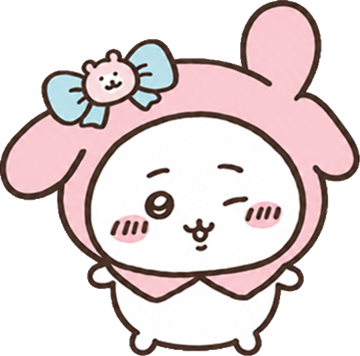
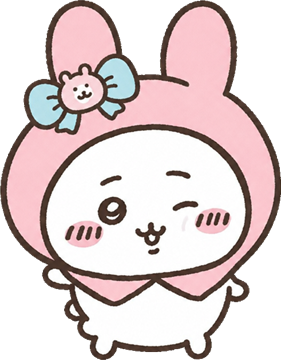
옷 그림 5벌 다시: 귀가 빠지거나 하나 더 생긴 AI 그림을 원본 기준으로
- 모몽가 마법소녀: MV 장면을 보고 귀·리본·꼬리를 살려 다시 그리고, 초록 배경으로 뽑아 깔끔하게 오림
- 치이카와 마이멜로디 옷: 후드 귀 두 개만 (치이카와 귀가 하나 더 생기던 것)
- 하치와레 호랑이 옷: 원본 새해 일러스트를 같이 보여 주고 다시 그림
- 카니 벚꽃 요정·하치와레 방한복: AI 대신 원본 일러스트·만화에서 다시 오림 (배경색과 몸 색을 구분해 안 비치게)

diff --git a/js/credits.js b/js/credits.js
@@ -115,13 +115,12 @@ const CREDITS = [
     note: '마법소녀(치이카와·하치와레·우사기·모몽가)와 산타(치이카와·하치와레·우사기·모몽가·랏코)는 원래 영상 장면, 마이멜로디·키티·푸린·쿠로미·한교동은 산리오 콜라보 일러스트, 나머지는 나가노 일러스트·만화와 애니·영화 장면이 원본',
     files: {
       'img/skins/chiikawa': ['dressup.png', 'franken.png', 'gelsheet.png', 'magical.png', 'melody.png', 'melon.png', 'pochette.png', 'santa.png', 'tiger.png'],
-      'img/skins/hachiware': ['bugnet.png', 'guitar.png', 'kitty.png', 'magical.png', 'santa.png', 'tiger.png', 'winter.png'],
+      'img/skins/hachiware': ['bugnet.png', 'guitar.png', 'kitty.png', 'magical.png', 'santa.png', 'tiger.png'],
       'img/skins/usagi': ['dj.png', 'franken.png', 'magical.png', 'purin.png', 'santa.png', 'tiger.png', 'whitesanta.png'],
       'img/skins/momonga': ['devil_angel.png', 'kuromi.png', 'magical.png', 'santa.png'],
       'img/skins/rakko': ['santa.png', 'taxi.png'],
       'img/skins/kurimanju': ['hangyodon.png'],
       'img/skins/shisa': ['pantu.png', 'traffic.png'],
-      'img/skins/kani': ['sakura.png'],
     },
   },
   { sec: 'orig', title: '섬 옷 (영화 인어섬)', by: '© nagano / 「映画ちいかわ」製作委員会',
@@ -149,14 +148,14 @@ const CREDITS = [
       ],
       'img/skins/hachiware': [
         'blackcat.png', 'chicken.png', 'cream.png', 'dress.png', 'franken.png', 'mushroom.png', 'nurse.png', 'octopus.png',
-        'ox.png', 'pajama.png', 'raincoat.png', 'snowman.png', 'whitesanta.png',
+        'ox.png', 'pajama.png', 'raincoat.png', 'snowman.png', 'whitesanta.png', 'winter.png',
       ],
       'img/skins/usagi': ['blackcat.png', 'doctor.png', 'knit.png', 'mushroom.png', 'ox.png', 'prince.png', 'raincoat.png', 'stollen.png', 'tree.png'],
       'img/skins/momonga': ['acorn.png', 'bat.png', 'devil.png', 'pizza.png', 'pumpkin.png'],
       'img/skins/rakko': ['mochi.png'],
       'img/skins/kurimanju': ['chestnut.png', 'edamame.png'],
       'img/skins/shisa': ['clerk.png', 'goat.png'],
-      'img/skins/kani': ['angel.png', 'bat.png', 'pizza.png'],
+      'img/skins/kani': ['angel.png', 'bat.png', 'pizza.png', 'sakura.png'],
     },
   },
   { sec: 'orig', title: 'VARCO로 다듬은 옷', by: '© nagano / chiikawa committee',

diff --git a/CREDITS.md b/CREDITS.md
@@ -107,7 +107,7 @@
 - `assets/img/skins/shisa/`: `magical.png`
 - `assets/img/skins/usagi/`: `hotate.png`, `neckie.png`, `squid.png`
 
-### VARCO로 전신을 이어 그린 옷 (33개)
+### VARCO로 전신을 이어 그린 옷 (31개)
 
 - 권리: © nagano / chiikawa committee, © 2022 SANRIO CO., LTD.
 - 출처: MV 「まじかるちいかわ」, 공식 콜라보 영상 「サンタ・テル・ミー」, [치이카와×산리오 캐릭터즈 콜라보 일러스트](https://www.famitsu.com/news/202206/10264618.html), [나가노 X (@ngnchiikawa)](https://x.com/ngnchiikawa), 애니·영화 장면, [VARCO (NCSOFT)](https://3d.varco.ai)
@@ -115,13 +115,12 @@
 - 참고: 마법소녀(치이카와·하치와레·우사기·모몽가)와 산타(치이카와·하치와레·우사기·모몽가·랏코)는 원래 영상 장면, 마이멜로디·키티·푸린·쿠로미·한교동은 산리오 콜라보 일러스트, 나머지는 나가노 일러스트·만화와 애니·영화 장면이 원본
 
 - `assets/img/skins/chiikawa/`: `dressup.png`, `franken.png`, `gelsheet.png`, `magical.png`, `melody.png`, `melon.png`, `pochette.png`, `santa.png`, `tiger.png`
-- `assets/img/skins/hachiware/`: `bugnet.png`, `guitar.png`, `kitty.png`, `magical.png`, `santa.png`, `tiger.png`, `winter.png`
+- `assets/img/skins/hachiware/`: `bugnet.png`, `guitar.png`, `kitty.png`, `magical.png`, `santa.png`, `tiger.png`
 - `assets/img/skins/usagi/`: `dj.png`, `franken.png`, `magical.png`, `purin.png`, `santa.png`, `tiger.png`, `whitesanta.png`
 - `assets/img/skins/momonga/`: `devil_angel.png`, `kuromi.png`, `magical.png`, `santa.png`
 - `assets/img/skins/rakko/`: `santa.png`, `taxi.png`
 - `assets/img/skins/kurimanju/`: `hangyodon.png`
 - `assets/img/skins/shisa/`: `pantu.png`, `traffic.png`
-- `assets/img/skins/kani/`: `sakura.png`
 
 ### 섬 옷 (영화 인어섬) (8개)
 
@@ -146,7 +145,7 @@
 
 - `assets/img/scenes/`: `island.jpg`
 
-### 나가노 일러스트·만화 옷 (49개)
+### 나가노 일러스트·만화 옷 (51개)
 
 - 권리: © nagano
 - 출처: [나가노 X (@ngnchiikawa)](https://x.com/ngnchiikawa)
@@ -154,13 +153,13 @@
 - 참고: 새해(2020~2022)·할로윈(2022~2025)·크리스마스(2022~2025)·생일 일러스트와 만화, 우비(2021-06)·잠옷(2021-04)·문어 옷(2022-06)·도토리 모자(2023-01)·교통 정리(2023-12)·벚꽃 요정(2024-03) 만화, 편의점 점원은 패밀리마트 콜라보 만화
 
 - `assets/img/skins/chiikawa/`: `blackcat.png`, `chicken.png`, `cream.png`, `dress.png`, `hakama.png`, `mushroom.png`, `nurse.png`, `octopus.png`, `ox.png`, `pajama.png`, `raincoat.png`, `tree.png`, `whitesanta.png`, `winter.png`
-- `assets/img/skins/hachiware/`: `blackcat.png`, `chicken.png`, `cream.png`, `dress.png`, `franken.png`, `mushroom.png`, `nurse.png`, `octopus.png`, `ox.png`, `pajama.png`, `raincoat.png`, `snowman.png`, `whitesanta.png`
+- `assets/img/skins/hachiware/`: `blackcat.png`, `chicken.png`, `cream.png`, `dress.png`, `franken.png`, `mushroom.png`, `nurse.png`, `octopus.png`, `ox.png`, `pajama.png`, `raincoat.png`, `snowman.png`, `whitesanta.png`, `winter.png`
 - `assets/img/skins/usagi/`: `blackcat.png`, `doctor.png`, `knit.png`, `mushroom.png`, `ox.png`, `prince.png`, `raincoat.png`, `stollen.png`, `tree.png`
 - `assets/img/skins/momonga/`: `acorn.png`, `bat.png`, `devil.png`, `pizza.png`, `pumpkin.png`
 - `assets/img/skins/rakko/`: `mochi.png`
 - `assets/img/skins/kurimanju/`: `chestnut.png`, `edamame.png`
 - `assets/img/skins/shisa/`: `clerk.png`, `goat.png`
-- `assets/img/skins/kani/`: `angel.png`, `bat.png`, `pizza.png`
+- `assets/img/skins/kani/`: `angel.png`, `bat.png`, `pizza.png`, `sakura.png`
 
 ### VARCO로 다듬은 옷 (4개)
 
